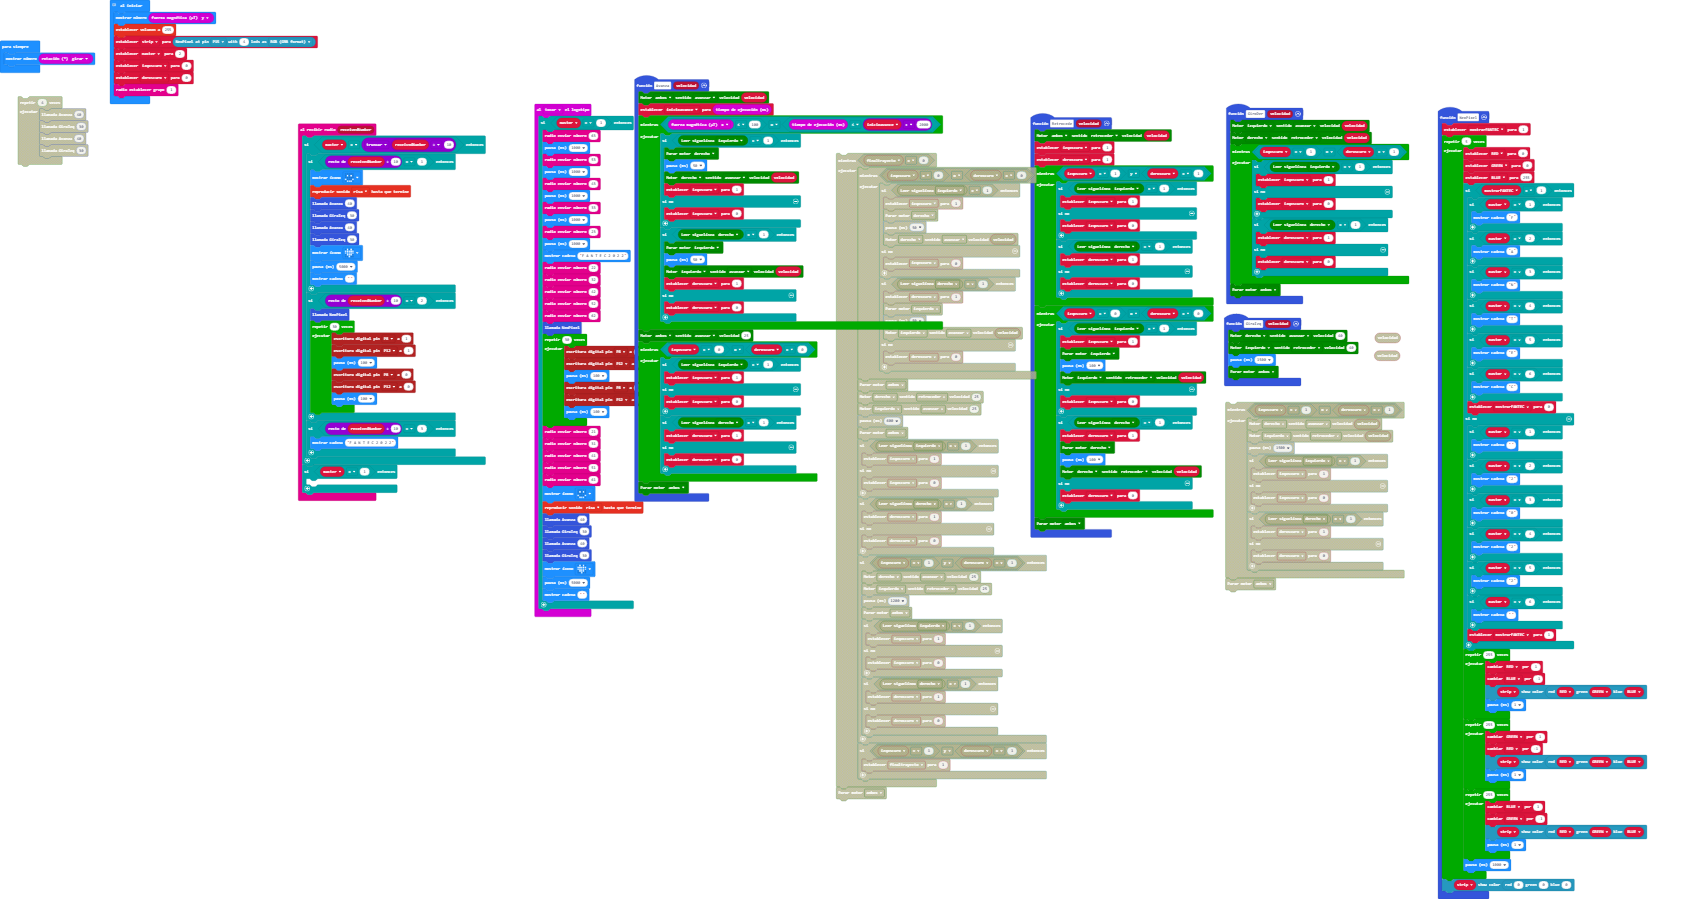
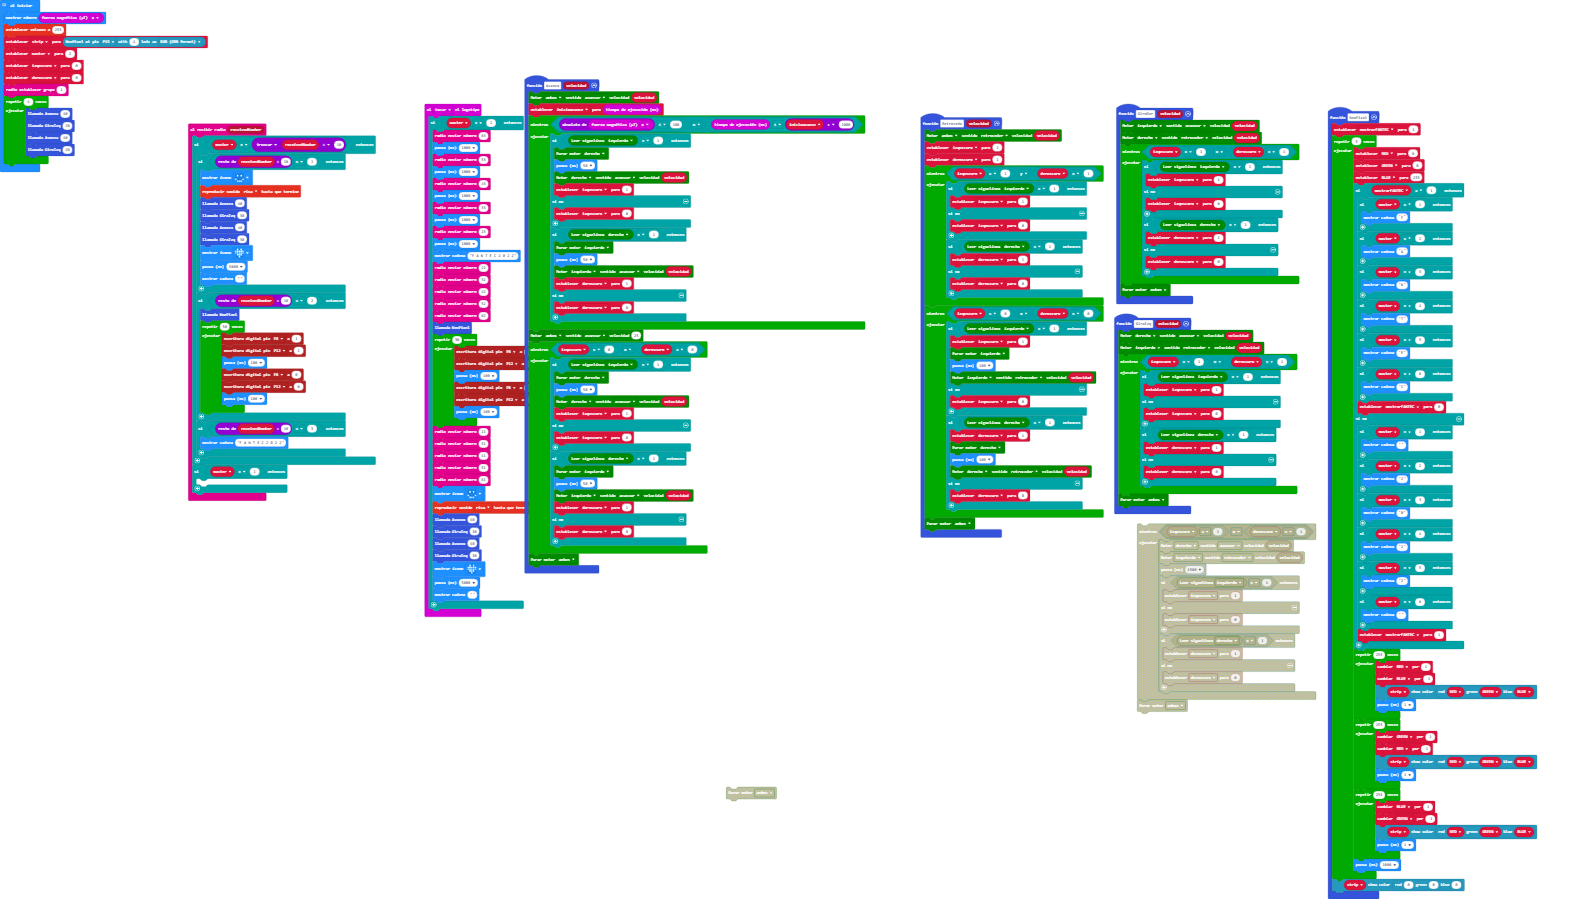
Actualizar main.blocks, main.ts

diff --git a/main.ts b/main.ts
@@ -33,7 +33,7 @@ radio.onReceivedNumber(function (receivedNumber) {
 function Avanza (velocidad: number) {
     maqueen.motorRun(maqueen.Motors.All, maqueen.Dir.CW, velocidad)
     inicioavance = input.runningTime()
-    while (input.magneticForce(Dimension.X) <= 100 || input.runningTime() <= inicioavance + 2000) {
+    while (Math.abs(input.magneticForce(Dimension.X)) <= 100 || input.runningTime() <= inicioavance + 2000) {
         if (maqueen.readPatrol(maqueen.Patrol.PatrolLeft) == 1) {
             maqueen.motorStop(maqueen.Motors.M2)
             basic.pause(50)
@@ -54,6 +54,29 @@ function Avanza (velocidad: number) {
     maqueen.motorRun(maqueen.Motors.All, maqueen.Dir.CW, 25)
     while (izqoscuro == 0 || deroscuro == 0) {
         if (maqueen.readPatrol(maqueen.Patrol.PatrolLeft) == 1) {
+            maqueen.motorStop(maqueen.Motors.M2)
+            basic.pause(50)
+            maqueen.motorRun(maqueen.Motors.M2, maqueen.Dir.CW, velocidad)
+            izqoscuro = 1
+        } else {
+            izqoscuro = 0
+        }
+        if (maqueen.readPatrol(maqueen.Patrol.PatrolRight) == 1) {
+            maqueen.motorStop(maqueen.Motors.M1)
+            basic.pause(50)
+            maqueen.motorRun(maqueen.Motors.M1, maqueen.Dir.CW, velocidad)
+            deroscuro = 1
+        } else {
+            deroscuro = 0
+        }
+    }
+    maqueen.motorStop(maqueen.Motors.All)
+}
+function GiraIzq (velocidad: number) {
+    maqueen.motorRun(maqueen.Motors.M2, maqueen.Dir.CW, velocidad)
+    maqueen.motorRun(maqueen.Motors.M1, maqueen.Dir.CCW, velocidad)
+    while (izqoscuro == 1 || deroscuro == 1) {
+        if (maqueen.readPatrol(maqueen.Patrol.PatrolLeft) == 1) {
             izqoscuro = 1
         } else {
             izqoscuro = 0
@@ -64,12 +87,6 @@ function Avanza (velocidad: number) {
             deroscuro = 0
         }
     }
-    maqueen.motorStop(maqueen.Motors.All)
-}
-function GiraIzq (velocidad: number) {
-    maqueen.motorRun(maqueen.Motors.M2, maqueen.Dir.CW, 40)
-    maqueen.motorRun(maqueen.Motors.M1, maqueen.Dir.CCW, 40)
-    basic.pause(1500)
     maqueen.motorStop(maqueen.Motors.All)
 }
 function GiroDer (velocidad: number) {
@@ -251,13 +268,16 @@ let deroscuro = 0
 let izqoscuro = 0
 let master = 0
 let strip: neopixel.Strip = null
-basic.showNumber(input.magneticForce(Dimension.Y))
+basic.showNumber(input.magneticForce(Dimension.X))
 music.setVolume(255)
 strip = neopixel.create(DigitalPin.P15, 4, NeoPixelMode.RGB)
 master = 2
 izqoscuro = 0
 deroscuro = 0
 radio.setGroup(1)
-basic.forever(function () {
-    basic.showNumber(input.rotation(Rotation.Roll))
-})
+for (let index = 0; index < 4; index++) {
+    Avanza(40)
+    GiraIzq(20)
+    Avanza(40)
+    GiraIzq(20)
+}
